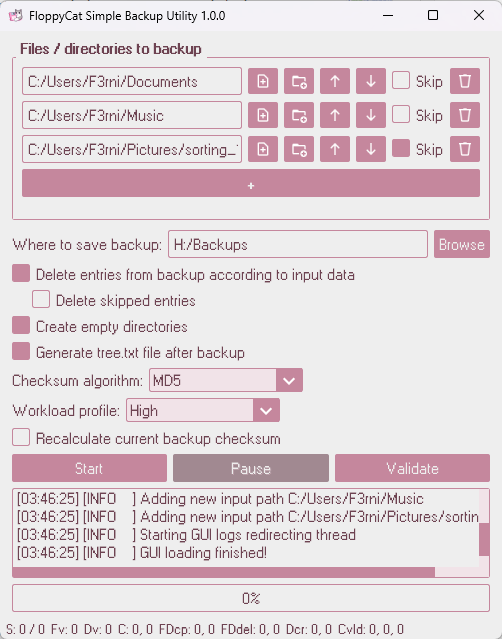
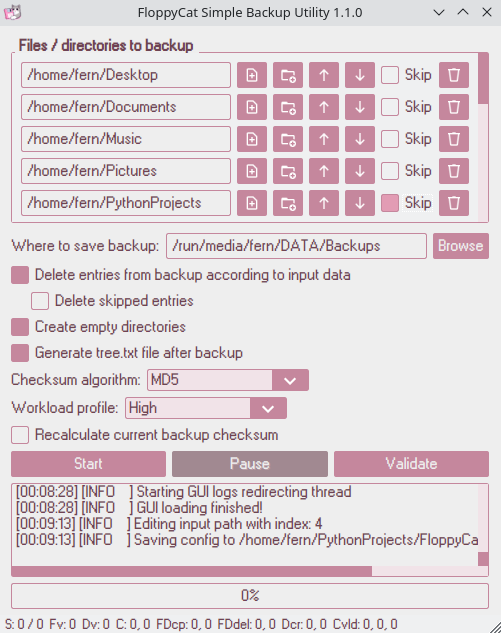
docs: update screenshot and readme

diff --git a/README.md b/README.md
@@ -57,7 +57,7 @@ Or message me if you would like to donate 💰
 
 ## 🏗 Build from source
 
-1. Install Python 3.10 or higher (not tested)
+1. Install Python 3.10 / 3.11 or higher (not tested)
 2. Download source code
 3. Create venv `python -m venv venv` / `python3 -m venv venv` / `python3.10 -m venv venv`
 4. Activate venv `source venv/bin/activate` _(for Linux)_ / `venv\Scripts\activate.bat` _(for Windows)_
